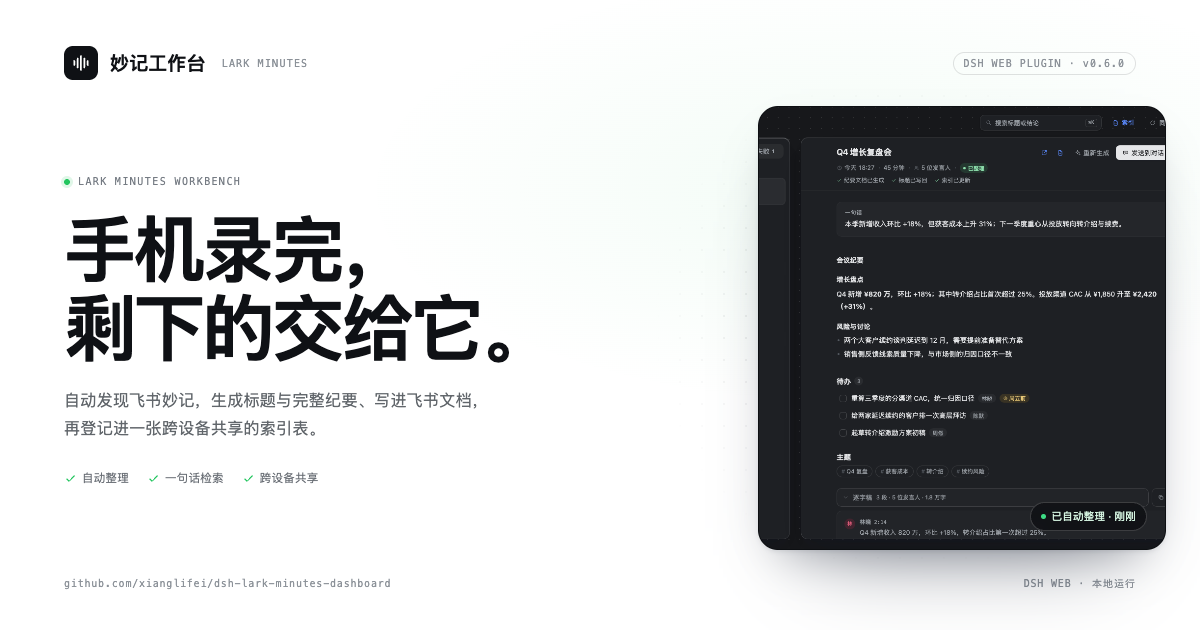
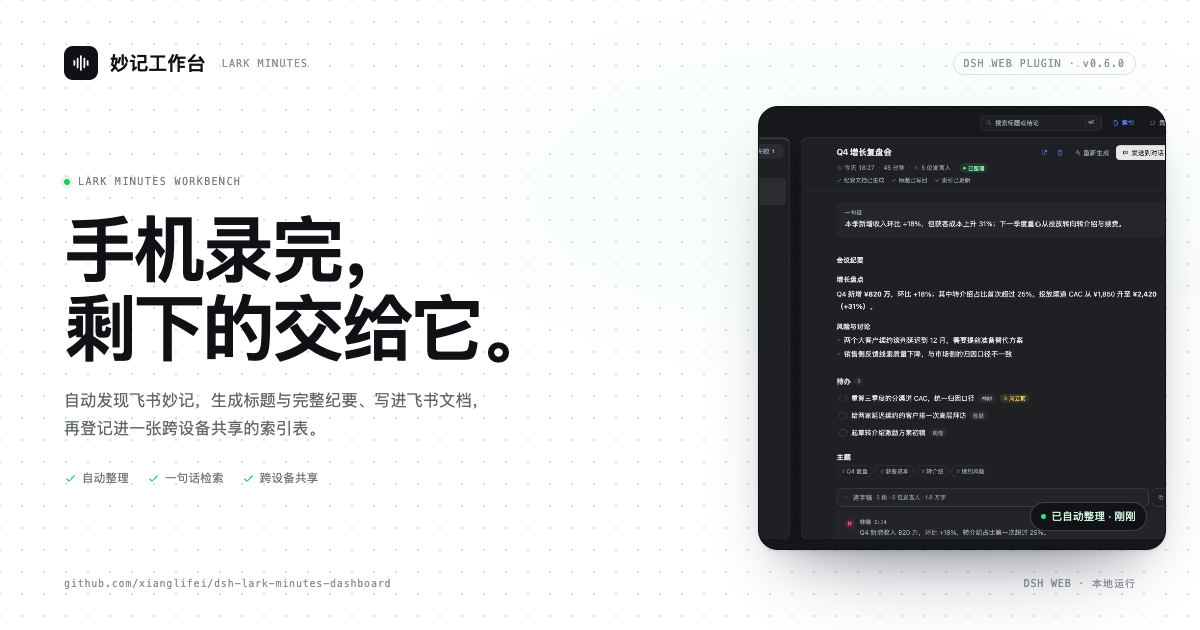
style: 恢复全页点阵，导航条改为实心独立底
回到白底 + 22px 点阵画布；导航条未下滑时用实心 --bg 盖住点阵，下滑后仍切到 82% 透明 + 毛玻璃。同步恢复深色底与 OG 图。

diff --git a/docs/style.css b/docs/style.css
@@ -8,7 +8,7 @@
 
   --bg: #ffffff;
   --surface: #ffffff;
-  --surface-2: #f2f4f6;
+  --surface-2: #f6f7f8;
   --border: rgba(15, 17, 21, .10);
   --border-soft: rgba(15, 17, 21, .055);
   --text: #0f1115;
@@ -49,7 +49,7 @@
 [data-theme="dark"] {
   color-scheme: dark;
 
-  --bg: #0b0d10;
+  --bg: #0d0f12;
   --surface: #16191e;
   --surface-2: #1b1f25;
   --border: rgba(255, 255, 255, .12);
@@ -97,6 +97,9 @@ body {
   margin: 0;
   min-height: 100%;
   background-color: var(--bg);
+  background-image: radial-gradient(circle, var(--dot) 1px, transparent 1.15px);
+  background-size: 22px 22px;
+  background-position: 11px 11px;
   color: var(--text);
   font-family: var(--sans);
   font-size: 14px;
@@ -157,7 +160,8 @@ code, pre, kbd { font-family: var(--mono); }
   position: sticky;
   top: 0;
   z-index: 40;
-  border-bottom: 1px solid transparent;
+  background: var(--bg);
+  border-bottom: 1px solid var(--border-soft);
   transition: background .2s ease, border-color .2s ease, backdrop-filter .2s ease;
 }
 .nav.is-stuck {
@@ -269,20 +273,7 @@ code, pre, kbd { font-family: var(--mono); }
 .hero {
   position: relative;
   padding: 84px 0 0;
-  isolation: isolate;
 }
-.hero::before {
-  content: "";
-  position: absolute;
-  inset: 0 0 auto;
-  height: 760px;
-  background: radial-gradient(62% 68% at 50% 0%,
-    color-mix(in srgb, var(--text) 3.4%, transparent),
-    transparent 72%);
-  pointer-events: none;
-  z-index: -1;
-}
-.hero > .wrap { position: relative; }
 .hero-inner {
   max-width: 920px;
   text-align: center;
@@ -392,28 +383,8 @@ code, pre, kbd { font-family: var(--mono); }
 .hero-proof .icon { width: 13px; height: 13px; color: var(--ok); }
 
 .hero-figure {
-  position: relative;
-  isolation: isolate;
   margin: 58px auto 0;
   max-width: 1120px;
-}
-.hero-figure::before {
-  content: "";
-  position: absolute;
-  left: 0;
-  right: 0;
-  top: -20px;
-  bottom: 48px;
-  border-radius: 32px;
-  background-image: radial-gradient(circle,
-    color-mix(in srgb, var(--text) 8%, transparent) 1px,
-    transparent 1.15px);
-  background-size: 22px 22px;
-  background-position: 11px 11px;
-  -webkit-mask-image: radial-gradient(ellipse 76% 78% at 50% 46%, #000 32%, transparent 78%);
-  mask-image: radial-gradient(ellipse 76% 78% at 50% 46%, #000 32%, transparent 78%);
-  z-index: -1;
-  pointer-events: none;
 }
 .shot {
   border: 1px solid var(--border);

diff --git a/docs/index.html b/docs/index.html
@@ -6,7 +6,7 @@
 <title>妙记工作台 · 把飞书妙记变成能看的会议纪要</title>
 <meta name="description" content="DSH Web 插件。自动发现飞书妙记，生成标题与完整纪要，写进飞书文档，并用一张索引表跨设备记住每一场会。">
 <meta name="theme-color" content="#ffffff" media="(prefers-color-scheme: light)">
-<meta name="theme-color" content="#0b0d10" media="(prefers-color-scheme: dark)">
+<meta name="theme-color" content="#0d0f12" media="(prefers-color-scheme: dark)">
 <link rel="canonical" href="https://xianglifei.github.io/dsh-lark-minutes-dashboard/">
 <link rel="icon" href="assets/icon.svg" type="image/svg+xml">
 <link rel="stylesheet" href="style.css">

diff --git a/docs/app.js b/docs/app.js
@@ -23,7 +23,7 @@
     if (persist) {
       try { localStorage.setItem('lm-theme', next); } catch (e) {}
     }
-    var color = next === 'dark' ? '#0b0d10' : '#ffffff';
+    var color = next === 'dark' ? '#0d0f12' : '#ffffff';
     var metas = document.querySelectorAll('meta[name="theme-color"]');
     for (var i = 0; i < metas.length; i++) {
       metas[i].setAttribute('content', color);

diff --git a/docs/README.md b/docs/README.md
@@ -33,7 +33,7 @@ python3 -m http.server 8765
 | 文件 | 作用 |
 |---|---|
 | `index.html` | 页面结构、中文文案、内联 SVG 图标 |
-| `style.css` | 与插件同一套视觉：近白底、14px 圆角浮卡、只在首屏产品图周围保留 22px 点阵点缀、深浅色 |
+| `style.css` | 与插件同一套视觉：白底全页 22px 点阵画布、顶部导航条实心白底遮住点阵、14px 圆角浮卡、深浅色 |
 | `app.js` | 主题切换、吸顶导航、入场动画、复制命令 |
 | `assets/workbench-light.png` | 浅色界面截图（来自 `assets/ui-0.5.0.png`） |
 | `assets/workbench-dark.png` | 深色界面截图（本地设计记录） |
@@ -44,5 +44,5 @@ python3 -m http.server 8765
 - 版本号写在 `index.html` 的 hero eyebrow（`v0.6.0`）、页脚和 JSON-LD 里，发版时一起改。
 - 安装命令、默认配置和「已知限制」都来自仓库 README；改默认值后记得同步这两处。
 - 截图更新时替换 `docs/assets/` 下的两张图，保持原始比例即可，卡片会自动缩放。
-- 页面底色是 `#ffffff`；点阵只出现在首屏产品图的 `::before` 光环里。想彻底去掉，删掉 `.hero-figure::before` 即可。
+- 页面是白底 + 全页 22px 点阵；顶部导航条用实心 `--bg` 盖住点阵，下滑后切成 82% 透明 + 毛玻璃。调点阵改 `body` 的 `background-image` 即可。
 - 不需要 Jekyll，`.nojekyll` 已就位。
